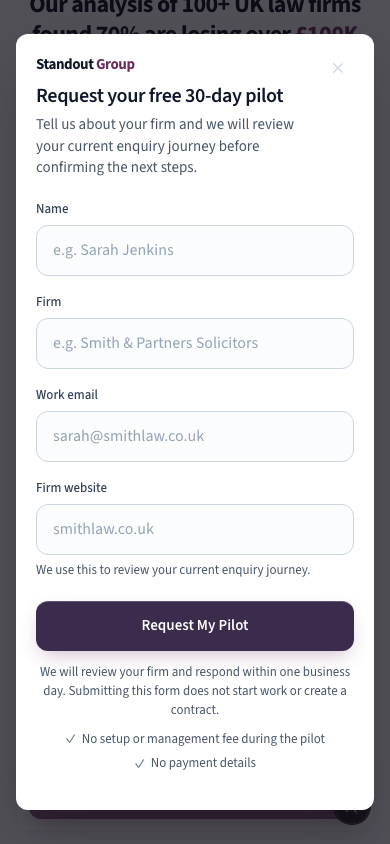
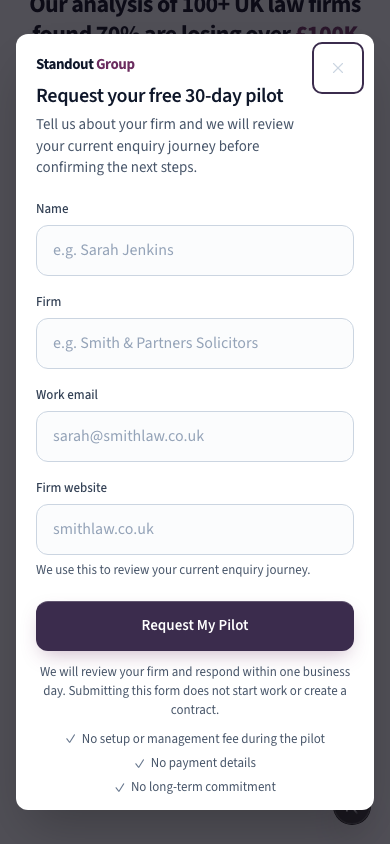
Fix modal shell so success hugs content and acceptance covers design checks.
Native dialog inset:0 made height:auto stretch full viewport; use fit-content with flex containment so the form scrolls when capped and the success state collapses cleanly.

Changed region(s): [[0.0615, 0.9242, 0.8615, 0.9858], [0.8, 0.0308, 0.8308, 0.1232], [0.9231, 0.0616, 0.9538, 0.1232]]

diff --git a/app/globals.css b/app/globals.css
@@ -1138,9 +1138,12 @@ html.modal-open {
 }
 
 .review-modal {
+  display: flex;
+  flex-direction: column;
   width: min(calc(100% - 2rem), 37.5rem); /* ~600px desktop; 32px screen margins */
   max-width: 37.5rem;
-  height: auto;
+  /* fit-content: UA dialog uses inset:0; height:auto would stretch full viewport */
+  height: fit-content;
   max-height: min(
     92dvh,
     calc(100% - 2rem - env(safe-area-inset-top, 0px) - env(safe-area-inset-bottom, 0px))
@@ -1164,9 +1167,11 @@ html.modal-open {
 .review-modal-panel {
   display: flex;
   flex-direction: column;
-  height: auto;
-  max-height: inherit;
+  flex: 1 1 auto;
+  width: 100%;
   min-height: 0;
+  max-height: 100%;
+  overflow: hidden;
 }
 
 .review-modal-header {
@@ -1240,6 +1245,7 @@ html.modal-open {
 }
 
 .review-modal-body {
+  flex: 1 1 auto;
   min-height: 0;
   padding: 0.75rem 1.25rem calc(1.35rem + env(safe-area-inset-bottom, 0px));
   overflow-y: auto;
@@ -1375,7 +1381,7 @@ html.modal-open {
   .review-modal {
     width: calc(100% - 32px);
     max-width: 440px;
-    height: auto;
+    height: fit-content;
     max-height: min(
       92dvh,
       calc(100% - 32px - env(safe-area-inset-top, 0px) - env(safe-area-inset-bottom, 0px))
@@ -1386,7 +1392,7 @@ html.modal-open {
 
   .review-modal-panel {
     height: auto;
-    max-height: inherit;
+    max-height: 100%;
   }
 
   .review-modal-header {

diff --git a/.cursor/plans/contact-form-design-implementation.md b/.cursor/plans/contact-form-design-implementation.md
@@ -22,7 +22,7 @@ todos:
     status: completed
   - id: phase-7-verify
     content: "Desktop + mobile visual/a11y pass; success state still fits height:auto; acceptance/screenshot scripts if they assume fullscreen modal"
-    status: pending
+    status: completed
 isProject: false
 ---
 
